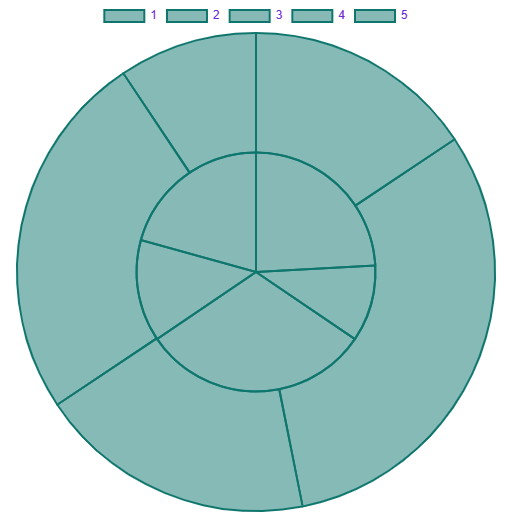
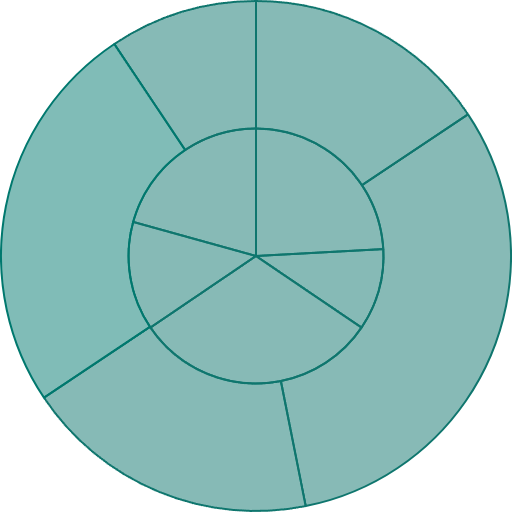
disable irrelevant chart config options

diff --git a/src/__tests__/utils/matchers.ts b/src/__tests__/utils/matchers.ts
@@ -79,7 +79,7 @@ const toEqualImageData: MatcherFunction<
         ` / ${RECEIVED_COLOR`${toPercent(ratio)}%`}\n` +
         `Tolerance: ${EXPECTED_COLOR`${toPercent(tolerance)}%`}\n` +
         `Threshold: ${EXPECTED_COLOR`${toPercent(threshold)}%`}`,
-      pass: false,
+      pass: debug ?? false,
     }
   }
 

diff --git a/src/__tests__/fixtures/defaults/bar.js b/src/__tests__/fixtures/defaults/bar.js
@@ -13,5 +13,12 @@ module.exports = {
         },
       ],
     },
+    options: {
+      scales: {
+        x: { display: false },
+        y: { display: false },
+      },
+      plugins: { legend: false },
+    },
   },
 }

diff --git a/src/__tests__/fixtures/defaults/bubble.js b/src/__tests__/fixtures/defaults/bubble.js
@@ -25,5 +25,12 @@ module.exports = {
         },
       ],
     },
+    options: {
+      scales: {
+        x: { display: false },
+        y: { display: false },
+      },
+      plugins: { legend: false },
+    },
   },
 }

diff --git a/src/__tests__/fixtures/defaults/doughnut.js b/src/__tests__/fixtures/defaults/doughnut.js
@@ -13,5 +13,12 @@ module.exports = {
         },
       ],
     },
+    options: {
+      scales: {
+        x: { display: false },
+        y: { display: false },
+      },
+      plugins: { legend: false },
+    },
   },
 }

diff --git a/src/__tests__/fixtures/defaults/line.js b/src/__tests__/fixtures/defaults/line.js
@@ -13,5 +13,12 @@ module.exports = {
         },
       ],
     },
+    options: {
+      scales: {
+        x: { display: false },
+        y: { display: false },
+      },
+      plugins: { legend: false },
+    },
   },
 }

diff --git a/src/__tests__/fixtures/defaults/pie.js b/src/__tests__/fixtures/defaults/pie.js
@@ -13,5 +13,12 @@ module.exports = {
         },
       ],
     },
+    options: {
+      scales: {
+        x: { display: false },
+        y: { display: false },
+      },
+      plugins: { legend: false },
+    },
   },
 }

diff --git a/src/__tests__/fixtures/defaults/scatter.js b/src/__tests__/fixtures/defaults/scatter.js
@@ -26,5 +26,12 @@ module.exports = {
         },
       ],
     },
+    options: {
+      scales: {
+        x: { display: false },
+        y: { display: false },
+      },
+      plugins: { legend: false },
+    },
   },
 }

diff --git a/src/__tests__/fixtures/defaults/radar.js b/src/__tests__/fixtures/defaults/radar.js
@@ -11,7 +11,10 @@ module.exports = {
       ],
     },
     options: {
-      plugins: { filler: false },
+      scales: {
+        r: { display: false },
+      },
+      plugins: { legend: false },
     },
   },
 }

diff --git a/src/__tests__/fixtures/defaults/polarArea.js b/src/__tests__/fixtures/defaults/polarArea.js
@@ -10,5 +10,11 @@ module.exports = {
         },
       ],
     },
+    options: {
+      scales: {
+        r: { display: false },
+      },
+      plugins: { legend: false },
+    },
   },
 }

diff --git a/src/__tests__/fixtures/pointHoverBackgroundColor/radar.js b/src/__tests__/fixtures/pointHoverBackgroundColor/radar.js
@@ -22,7 +22,6 @@ module.exports = {
   },
 
   options: {
-    tolerance: 0.0001,
     async run(chart) {
       const element = chart.getDatasetMeta(0).data[2]
 

diff --git a/src/__tests__/fixtures/pointHoverBorderColor/radar.js b/src/__tests__/fixtures/pointHoverBorderColor/radar.js
@@ -23,7 +23,6 @@ module.exports = {
   },
 
   options: {
-    tolerance: 0.0001,
     async run(chart) {
       const element = chart.getDatasetMeta(0).data[2]
 
